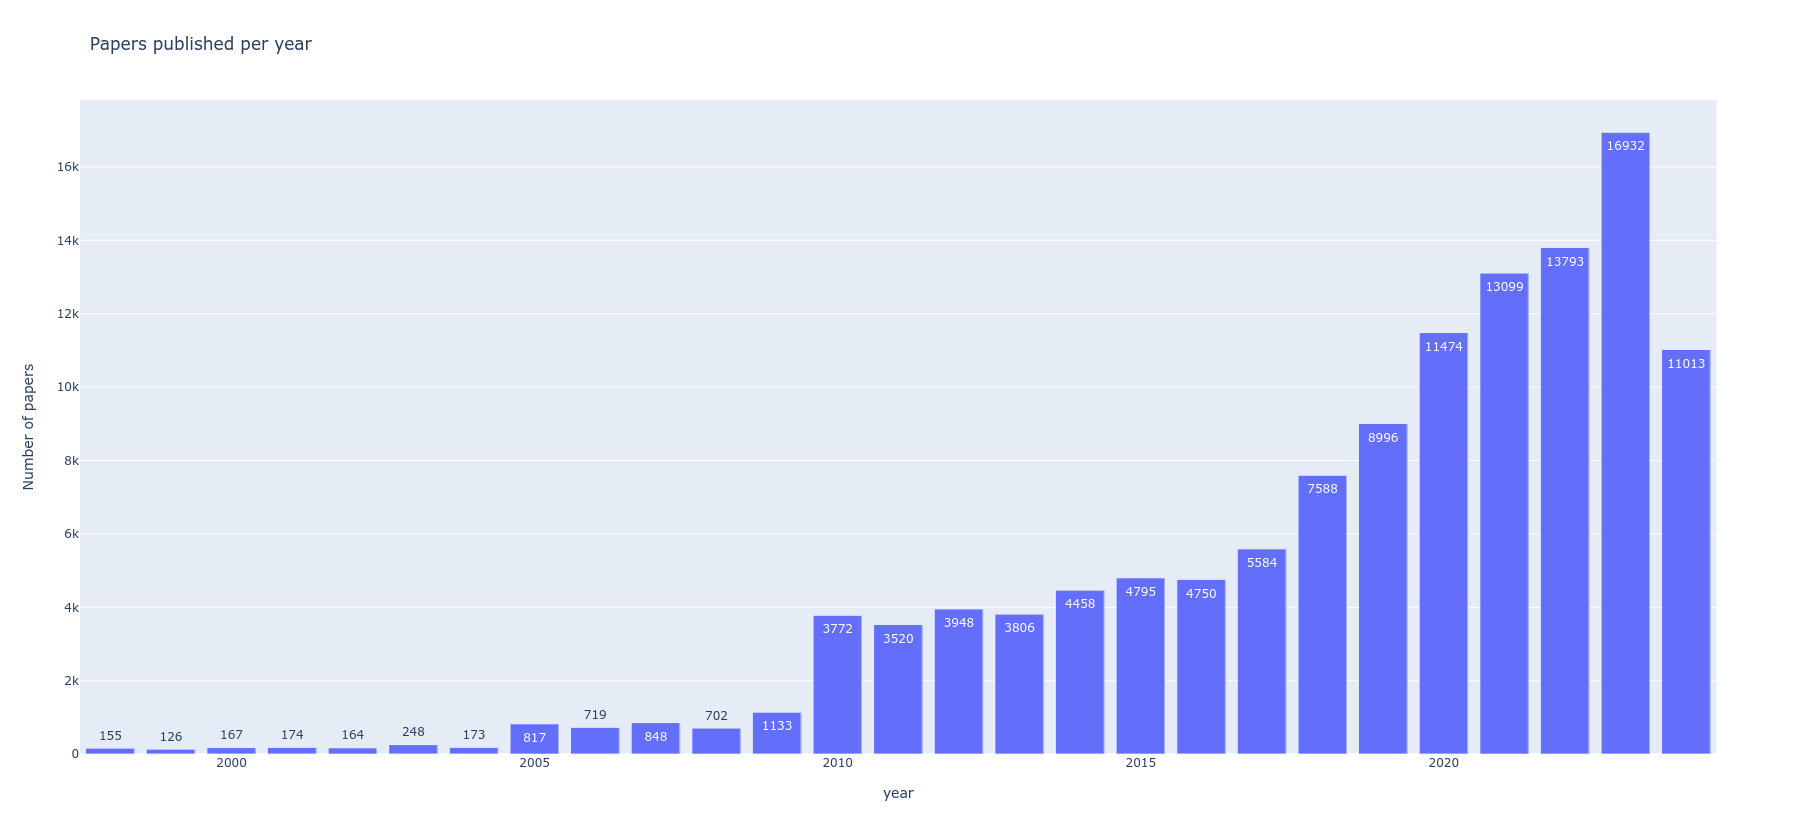
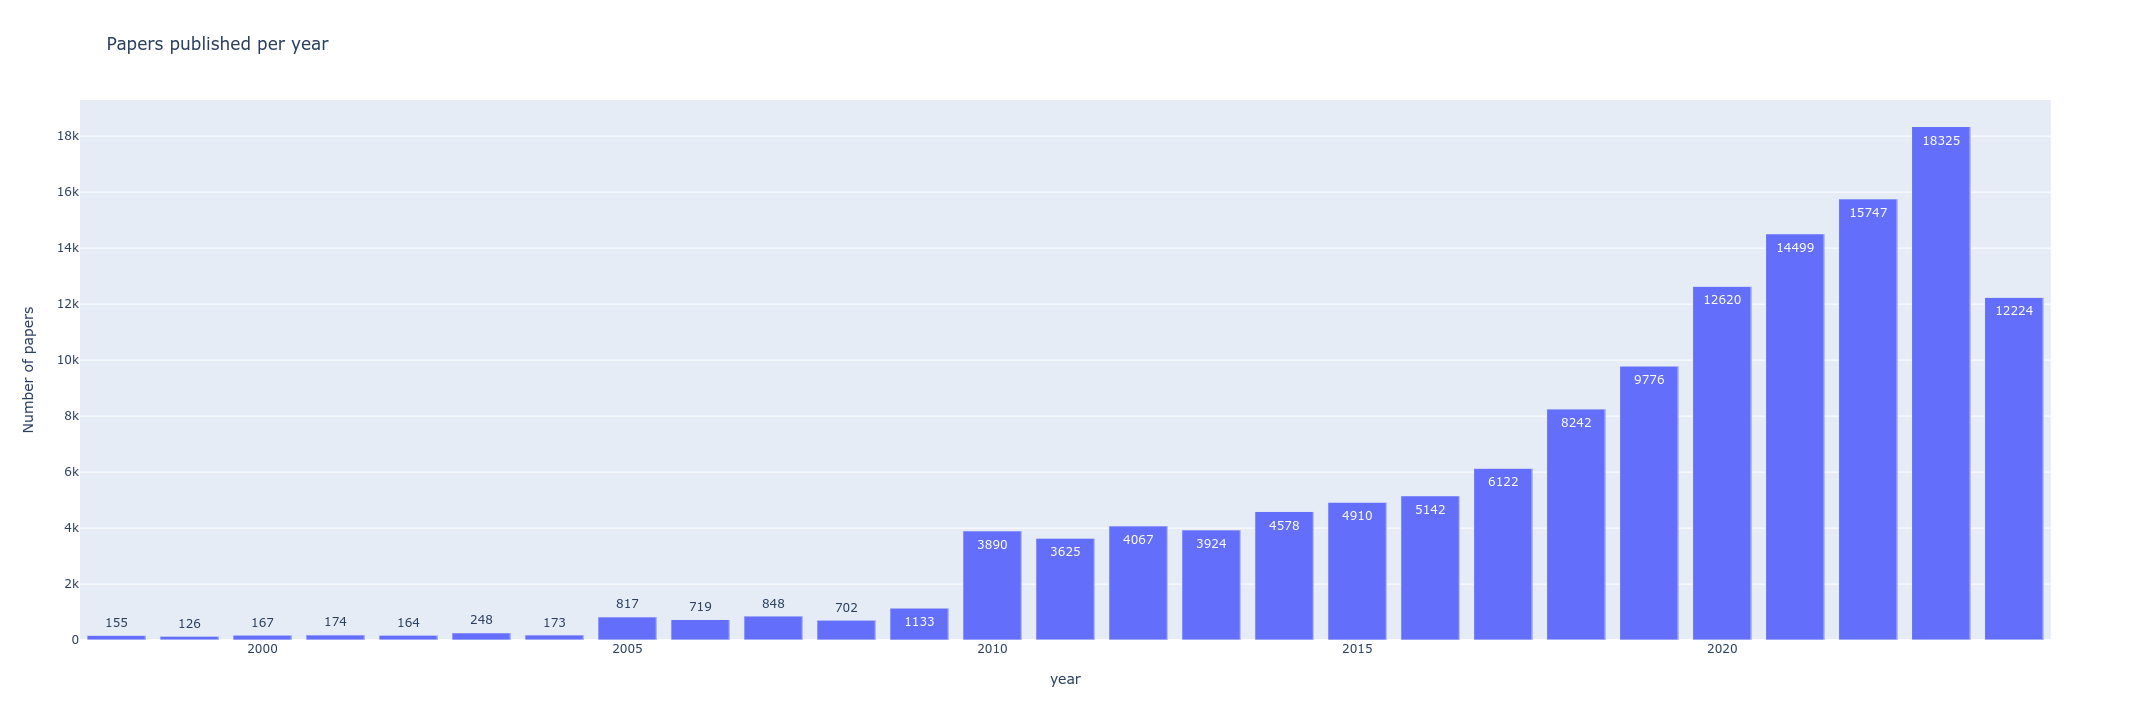
updated paper lists and stats

Changed region(s): [[0.0, 0.1224, 0.9666, 0.9179], [0.0312, 0.0306, 0.1871, 0.0918]]

diff --git a/README.md b/README.md
@@ -1,8 +1,8 @@
 # cvml-sanity
 
-cvml-sanity is a paper search engine for major computer vision, machine learning, robotics, and AI conferences. The code is repurposed from [arxiv-sanity-lite](https://github.com/karpathy/arxiv-sanity-lite).
+cvml-sanity is a paper search engine for major computer vision, machine learning, robotics, and AI conferences and journals. The code is repurposed from [arxiv-sanity-lite](https://github.com/karpathy/arxiv-sanity-lite). 
 
-The database includes **122,954 papers** from the following conferences:
+The database includes **133,117 papers** from the following conferences (*excluding workshops*) and journals:
 
 Computer vision: 
 - **CVPR** 2009 -- 2024
@@ -17,11 +17,13 @@ Robotics:
 - **IROS** 2010 -- 2023
 - **CoRL** 2017 -- 2023
 - **RSS**  2005 -- 2023
+- **R-AL** 2016 -- 2024 (up to August)
 
 Machine learning:
 - **NeurIPS** 2010 -- 2023
 - **ICML** 2010 -- 2024
 - **ICLR** 2013 -- 2024
+- **JMLR** 2010 -- 2024 (up to August)
 
 AI:
 - **AAAI** 2010 -- 2024
@@ -30,6 +32,7 @@ AI:
 <img src="images/papers_per_year.png" alt="stats" align="middle" width="1000"/>
 </p>
 <br/><br/>
+
 
 #### Requirements
 
@@ -69,11 +72,15 @@ Search relies on the [Xapian engine](https://xapian.org/).
 
 -- Occurrences of terms close together, e.g. 'visual NEAR attention' will match only documents where these terms occur within a few words of one another.
 
+A complete list of supported queries can be found [in the official Xapian documentation](https://getting-started-with-xapian.readthedocs.io/en/latest/concepts/search/queries.html#).
+
 ## Filtering results
+
+Two additional text fields below the search results allow filtering the results.
 
 Filter by venue -- enter venue names separated by commas, e.g. cvpr,bmvc,iros. Not case sensitive.
 
-Filter by year -- enter a range of years. Papers published between these values (inclusive) will be returned.
+Filter by year -- enter a range of years. Papers published between these values (inclusive) will be returned (e.g. to find all papers from 2022, enter 2022-2022)
 
 ### Number of papers returned
 
@@ -81,7 +88,9 @@ By default, 1,000 top results are returned. This number is controlled by the `pa
 
 ### TODO: 
 - [ ] ICRA 2024
-- [ ] full-text search for ICRA
+- [ ] full-text search for ICRA/IROS/R-AL
+- [ ] R-AL
+- [ ] JMLR
 - [ ] ~~add IJCAI?~~
 - [ ] ~~add HCI?~~
 - [ ] workshops papers? 
